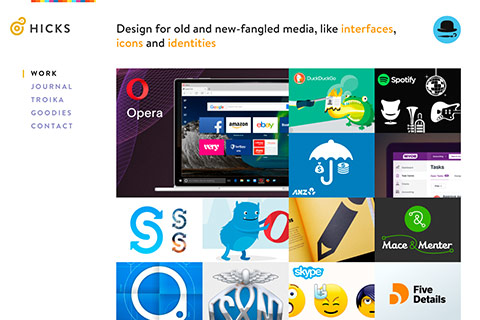
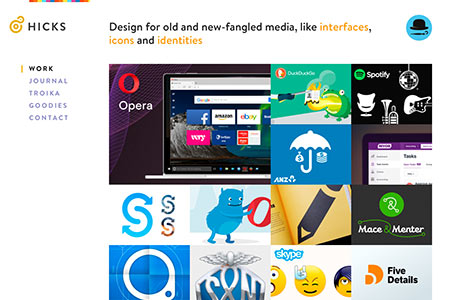
More layout work for the homepage showcase section

diff --git a/src/assets/sass/modules/_embedded-content.scss b/src/assets/sass/modules/_embedded-content.scss
@@ -82,77 +82,53 @@ img {
  */
 
 .showcase-container {
-    position: relative;
-    margin-top: 2em;
-    margin-bottom: 2em;
+
+    img {
+        border: 1px solid $color-border;
+        box-shadow: 0 0.25em 0.5em rgba(51, 51, 51, 0.33);
+    }
 }
 
 .showcase-1 {
     position: relative;
-    bottom: 0;
-    max-width: 480px;
-    margin: 0 auto;
-    z-index: 3;
+    max-width: 320px;
+    margin: 1.5em auto;
 
     &::before {
         display: block;
-        width: 482px;
-        height: 32px;
+        height: 20px;
         background-image: url("../img/com/showcase1-bar@2x.png");
-        background-size: 482px 32px;
-        box-shadow: 0 0.5em 0.75em rgba(51, 51, 51, 0.33);
+        background-size: 100% 20px;
         content: "";
-    }
-
-    img {
-        border: 1px solid $color-border;
-        box-shadow: 0 0.5em 0.75em rgba(51, 51, 51, 0.33);
     }
  }
 
 .showcase-2 {
-    position: absolute;
-    bottom: 1em;
-    left: 0;
-    z-index: 2;
+    position: relative;
+    max-width: 320px;
+    margin: 1.5em auto;
 
     &::before {
         display: block;
-        width: 362px;
-        height: 32px;
+        height: 20px;
         background-image: url("../img/com/showcase2-bar@2x.png");
-        background-size: 362px 32px;
-        box-shadow: 0 0.25em 0.5em rgba(51, 51, 51, 0.33);
+        background-size: 100% 20px;
         content: "";
-    }
-
-    img {
-        border: 1px solid $color-border;
-        box-shadow: 0 0.25em 0.5em rgba(51, 51, 51, 0.33);
     }
 }
 
 .showcase-3 {
-    position: absolute;
-    right: 0;
-    bottom: 1em;
-    z-index: 1;
+    position: relative;
+    max-width: 320px;
+    margin: 1.5em auto;
 
     &::before {
         display: block;
-        width: 362px;
-        height: 32px;
+        height: 20px;
         background-image: url("../img/com/showcase3-bar@2x.png");
-        background-size: 362px 32px;
-        box-shadow: 0 0.25em 0.5em rgba(51, 51, 51, 0.33);
+        background-size: 100% 20px;
         content: "";
     }
-
-    img {
-        border: 1px solid $color-border;
-        box-shadow: 0 0.25em 0.5em rgba(51, 51, 51, 0.33);
-    }
-
 }
 
 /**

diff --git a/src/assets/sass/modules/_responsive.scss b/src/assets/sass/modules/_responsive.scss
@@ -54,6 +54,41 @@
         width: 74%;
     }
 
+    /**
+     * Show the homepage showcase images in a single row.
+     */
+
+    .showcase-container {
+        position: relative;
+        margin-top: 2em;
+        margin-bottom: 2em;
+    }
+
+    .showcase-1 {
+        bottom: 0;
+        max-width: 450px;
+        margin: 0 auto;
+        z-index: 3;
+
+        img {
+            box-shadow: 0 0.5em 0.75em rgba(51, 51, 51, 0.33);
+        }
+     }
+
+    .showcase-2 {
+        position: absolute;
+        bottom: 1em;
+        left: 0;
+        z-index: 2;
+    }
+
+    .showcase-3 {
+        position: absolute;
+        right: 0;
+        bottom: 1em;
+        z-index: 1;
+    }
+
 }
 
 
